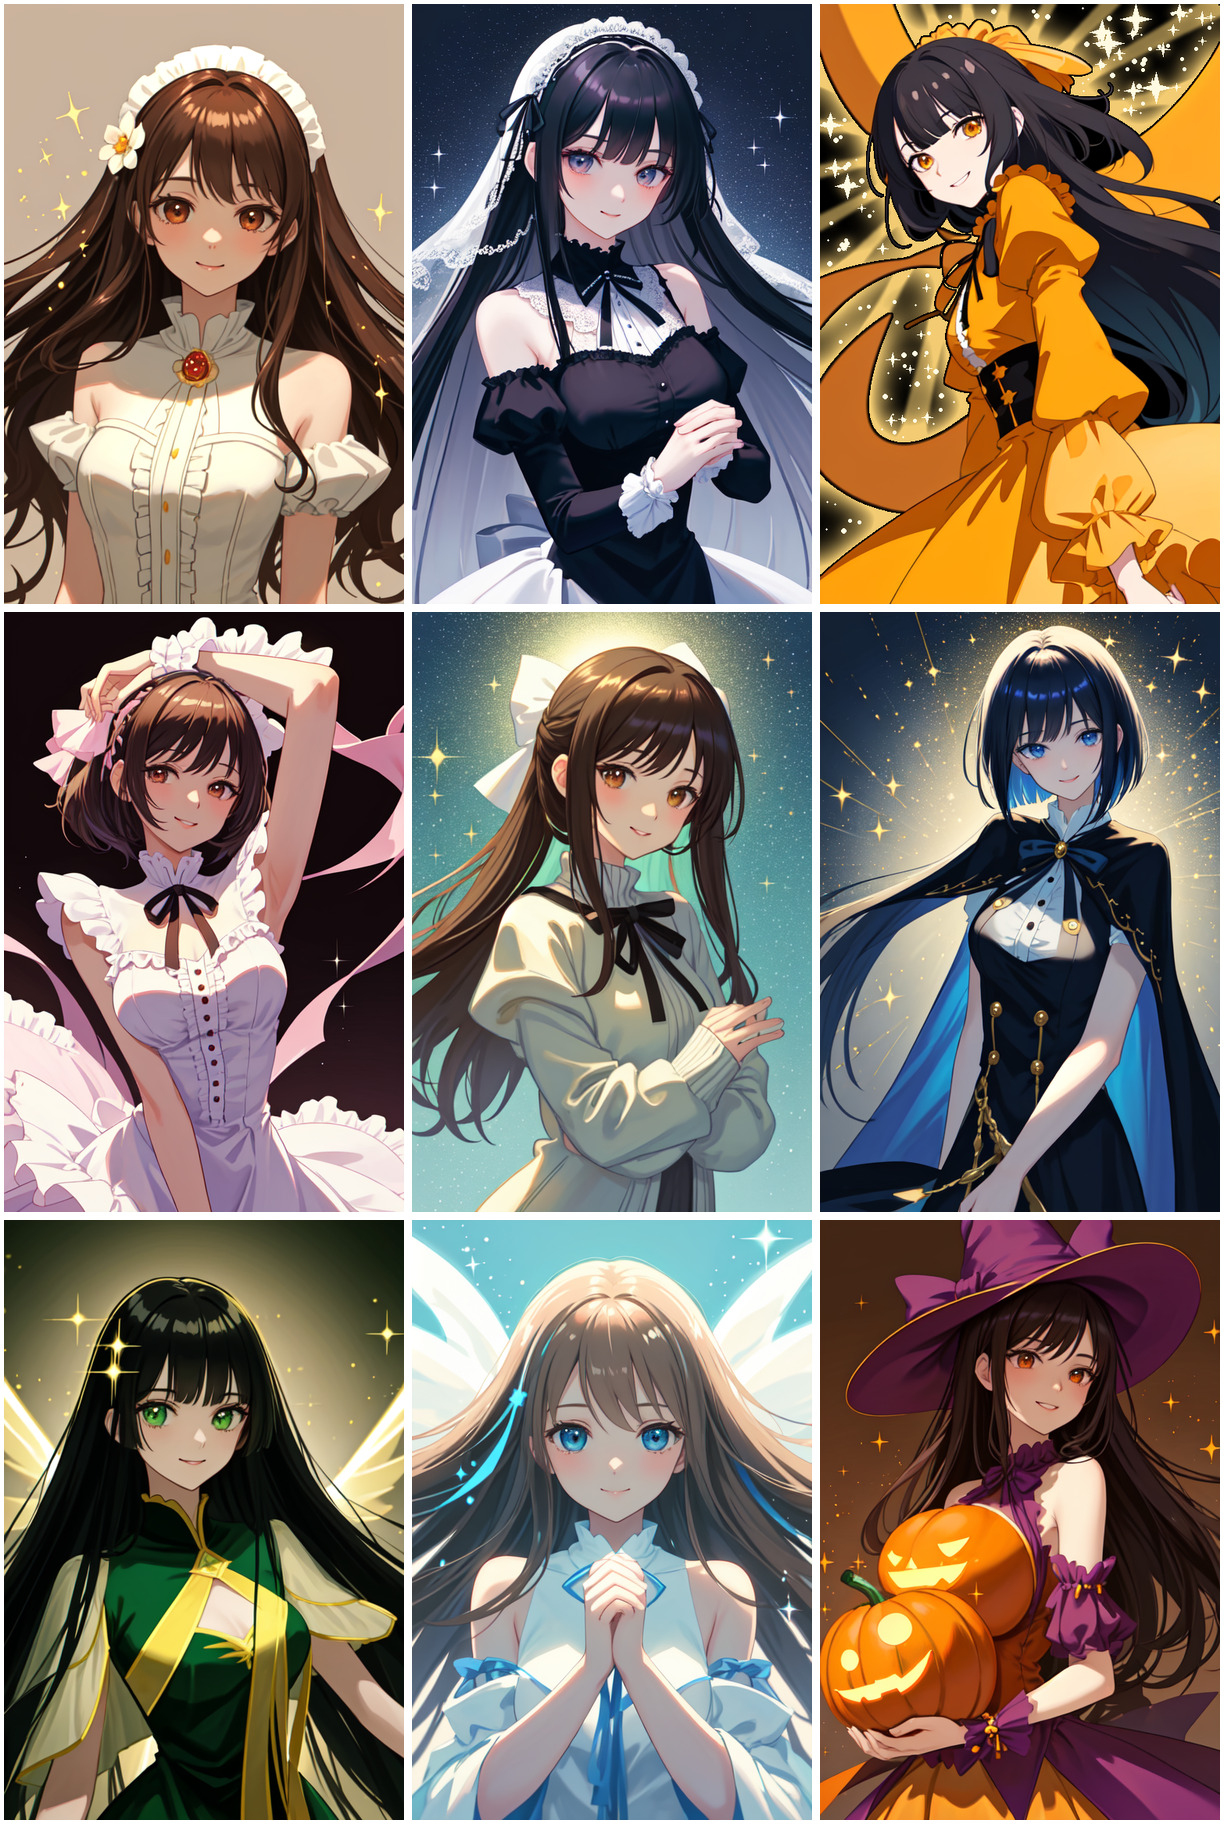
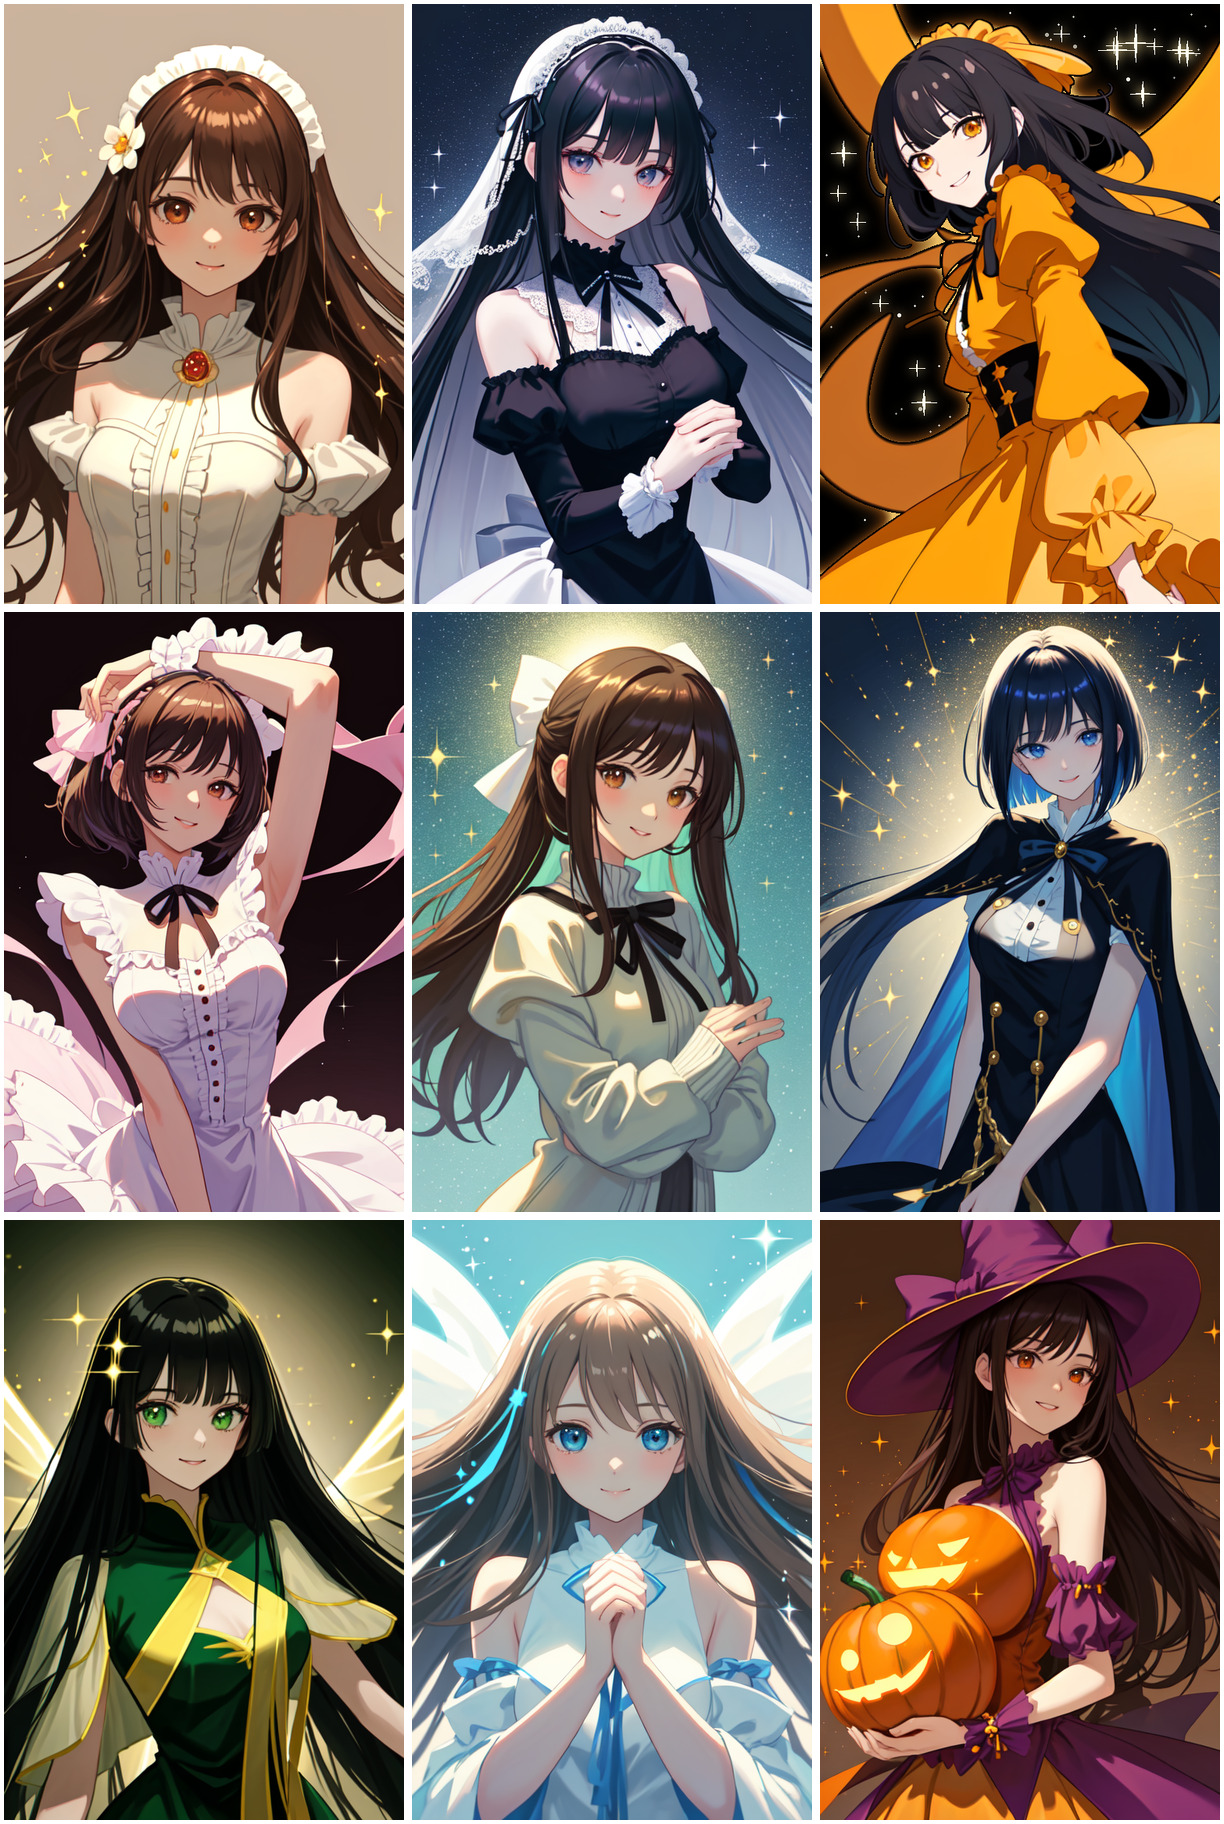
アニメB 03: キラキラを上品な星と淡い金色のにじみに作り直し(背景のみ)
Claude-Session: https://claude.ai/code/session_0113YPYwcnftxFc8SGzBWbWR

Changed region(s): [[0.652, 0.0312, 0.8072, 0.25], [0.7141, 0.0, 1.0, 0.0938], [0.652, 0.25, 0.7451, 0.3125]]

diff --git a/scripts/add_sparkles.py b/scripts/add_sparkles.py
@@ -50,65 +50,89 @@ bg = np.asarray(bg_img) > 0
 GOLD = np.array([255, 214, 120], float)
 WHITE = np.array([255, 250, 225], float)
 
-# 2. 後光: 人物(背景でない所)のまわりがやわらかく金色に光る
-person = Image.fromarray(((~bg) * 255).astype(np.uint8)).filter(ImageFilter.GaussianBlur(20))
+# 2. 後光: 人物のまわりが、なめらかに金色に光る(近いほど明るく、遠いほど深いあめ色)
+person = Image.fromarray(((~bg) * 255).astype(np.uint8)).filter(ImageFilter.GaussianBlur(12))
 halo = np.asarray(person, float)[..., None] / 255.0
-halo = np.clip(halo * 2.0, 0, 1) * 0.95
+halo = np.clip(halo * 1.4, 0, 1) ** 2.2 * 0.7
+COL_NEAR = np.array([255, 236, 190], float)
+COL_FAR = np.array([232, 150, 40], float)
 
-# 3. 放射状の光線(頭のうしろから)
+# 3. 放射状の光線: ごく淡く、ふんわり
 rays = Image.new("L", (W, H), 0)
 d = ImageDraw.Draw(rays)
-n = 22
+n = 14
 for k in range(n):
-    ang = 2 * math.pi * k / n + 0.07
-    half = math.pi / n * 0.28
+    ang = 2 * math.pi * k / n + 0.11
+    half = math.pi / n * 0.35
     R = 1200
-    pts = [(cx, cy), (cx + R * math.cos(ang - half), cy + R * math.sin(ang - half)),
-           (cx + R * math.cos(ang + half), cy + R * math.sin(ang + half))]
-    d.polygon(pts, fill=255)
-rays = np.asarray(rays.filter(ImageFilter.GaussianBlur(2)), float)[..., None] / 255.0 * 0.55
+    d.polygon([(cx, cy), (cx + R * math.cos(ang - half), cy + R * math.sin(ang - half)),
+               (cx + R * math.cos(ang + half), cy + R * math.sin(ang + half))], fill=255)
+rays = np.asarray(rays.filter(ImageFilter.GaussianBlur(9)), float)[..., None] / 255.0 * 0.0
 
-# 4. キラキラ(大小の4つ星と光の粒)。背景だけに置く
-rng = np.random.default_rng(7)
-star = Image.new("L", (W, H), 0)
-dot = Image.new("L", (W, H), 0)
-sd, dd = ImageDraw.Draw(star), ImageDraw.Draw(dot)
+# 4. 光のボケ(やわらかい円)と、細く長い上品な星
+rng = np.random.default_rng(11)
 
 
-def free(x, y, r):
-    y0, y1, x0, x1 = max(0, y - r - 4), min(H, y + r + 5), max(0, x - r - 4), min(W, x + r + 5)
-    return bg[y0:y1, x0:x1].mean() > 0.97
+def free(x, y, r, frac=0.93):
+    y0, y1, x0, x1 = max(0, y - r - 3), min(H, y + r + 4), max(0, x - r - 3), min(W, x + r + 4)
+    return bg[y0:y1, x0:x1].mean() > frac
 
 
-placed = 0
-tries = 0
-while placed < 38 and tries < 4000:
+bokeh = np.zeros((H, W), float)
+placed, tries = 0, 0
+while placed < 0 and tries < 6000:
     tries += 1
-    x, y = int(rng.integers(8, W - 8)), int(rng.integers(8, H - 8))
-    r = int(rng.choice([5, 7, 9, 12, 16, 20], p=[0.25, 0.25, 0.2, 0.15, 0.1, 0.05]))
+    x, y = int(rng.integers(10, W - 10)), int(rng.integers(10, H - 10))
+    r = int(rng.choice([6, 9, 13, 18, 26], p=[0.3, 0.3, 0.2, 0.14, 0.06]))
     if not free(x, y, r):
         continue
-    k = r * 0.2
-    sd.polygon([(x, y - r), (x + k, y - k), (x + r, y), (x + k, y + k), (x, y + r), (x - k, y + k), (x - r, y), (x - k, y - k)], fill=255)
-    placed += 1
-for _ in range(700):
-    x, y = int(rng.integers(5, W - 5)), int(rng.integers(5, H - 5))
-    r = int(rng.choice([1, 2, 3]))
-    if free(x, y, r):
-        dd.ellipse((x - r, y - r, x + r, y + r), fill=255)
-star_core = np.asarray(star, float)[..., None] / 255.0
-dot_core = np.asarray(dot, float)[..., None] / 255.0
-glow = np.asarray(Image.fromarray(np.maximum(np.asarray(star), np.asarray(dot))).filter(ImageFilter.GaussianBlur(6)), float)[..., None] / 255.0
+    layer = Image.new("L", (W, H), 0)
+    ld = ImageDraw.Draw(layer)
+    ld.ellipse((x - r, y - r, x + r, y + r), fill=int(rng.uniform(110, 200)))
+    bokeh = np.maximum(bokeh, np.asarray(layer.filter(ImageFilter.GaussianBlur(max(2.0, r / 2.2))), float) / 255.0)
 
-# 5. 合成。背景の画素だけを変える
+star = Image.new("L", (W, H), 0)
+sd = ImageDraw.Draw(star)
+placed, tries = 0, 0
+while placed < 14 and tries < 6000:
+    tries += 1
+    x, y = int(rng.integers(14, W - 14)), int(rng.integers(14, H - 14))
+    r = int(rng.choice([10, 16, 24, 34], p=[0.4, 0.3, 0.2, 0.1]))
+    if not free(x, y, r, 0.97):
+        continue
+    k = r * 0.07
+    sd.polygon([(x, y - r), (x + k, y - k), (x + r, y), (x + k, y + k), (x, y + r), (x - k, y + k), (x - r, y), (x - k, y - k)], fill=255)
+    rr = r * 0.45
+    k2 = rr * 0.12
+    sd.polygon([(x, y - rr), (x + k2, y - k2), (x + rr, y), (x + k2, y + k2), (x, y + rr), (x - k2, y + k2), (x - rr, y), (x - k2, y - k2)], fill=255)
+    placed += 1
+dots = 0
+tries = 0
+dd = ImageDraw.Draw(star)
+while dots < 34 and tries < 4000:
+    tries += 1
+    x, y = int(rng.integers(8, W - 8)), int(rng.integers(8, H - 8))
+    r = int(rng.choice([1, 2], p=[0.6, 0.4]))
+    if free(x, y, r, 0.97):
+        dd.ellipse((x - r, y - r, x + r, y + r), fill=int(rng.uniform(140, 255)))
+        dots += 1
+star_a = np.asarray(star, float) / 255.0
+star_glow = np.asarray(star.filter(ImageFilter.GaussianBlur(7)), float) / 255.0
+bokeh_a = bokeh[..., None] * 0.6
+star_core = star_a[..., None]
+star_gl = np.clip(star_glow * 1.8, 0, 1)[..., None] * 0.7
+
+# 5. 合成。背景の画素だけを変える(黒の背景を、あめ色→金色のなめらかなグラデーションに置き換える)
 base = a.astype(float)
 bgm = bg[..., None].astype(float)
-light = np.clip(halo + rays, 0, 0.95)
-out = base * (1 - light * bgm) + GOLD * (light * bgm)
-g = np.clip(glow * 0.9, 0, 1) * bgm
-out = out * (1 - g) + GOLD * g
-core = np.clip(star_core + dot_core, 0, 1) * bgm
-out = out * (1 - core) + WHITE * core
+t = np.clip(halo / 0.7, 0, 1) ** 0.85
+FAR, MID, NEAR = np.array([0, 0, 0], float), np.array([96, 52, 14], float), np.array([236, 190, 100], float)
+grad = np.where(t < 0.5, FAR + (MID - FAR) * (t / 0.5), MID + (NEAR - MID) * ((t - 0.5) / 0.5))
+out = grad
+out = out * (1 - rays * 0.8) + np.array([255, 226, 150], float) * (rays * 0.8)
+out = out * (1 - bokeh_a * 0.8) + np.array([255, 236, 180], float) * (bokeh_a * 0.8)
+out = out * (1 - star_gl) + np.array([255, 226, 150], float) * star_gl
+out = out * (1 - star_core) + np.array([255, 253, 240], float) * star_core
 out = np.where(bgm > 0, out, base)
 res = np.clip(out, 0, 255).astype(np.uint8)
 Image.fromarray(res).save(dst)
